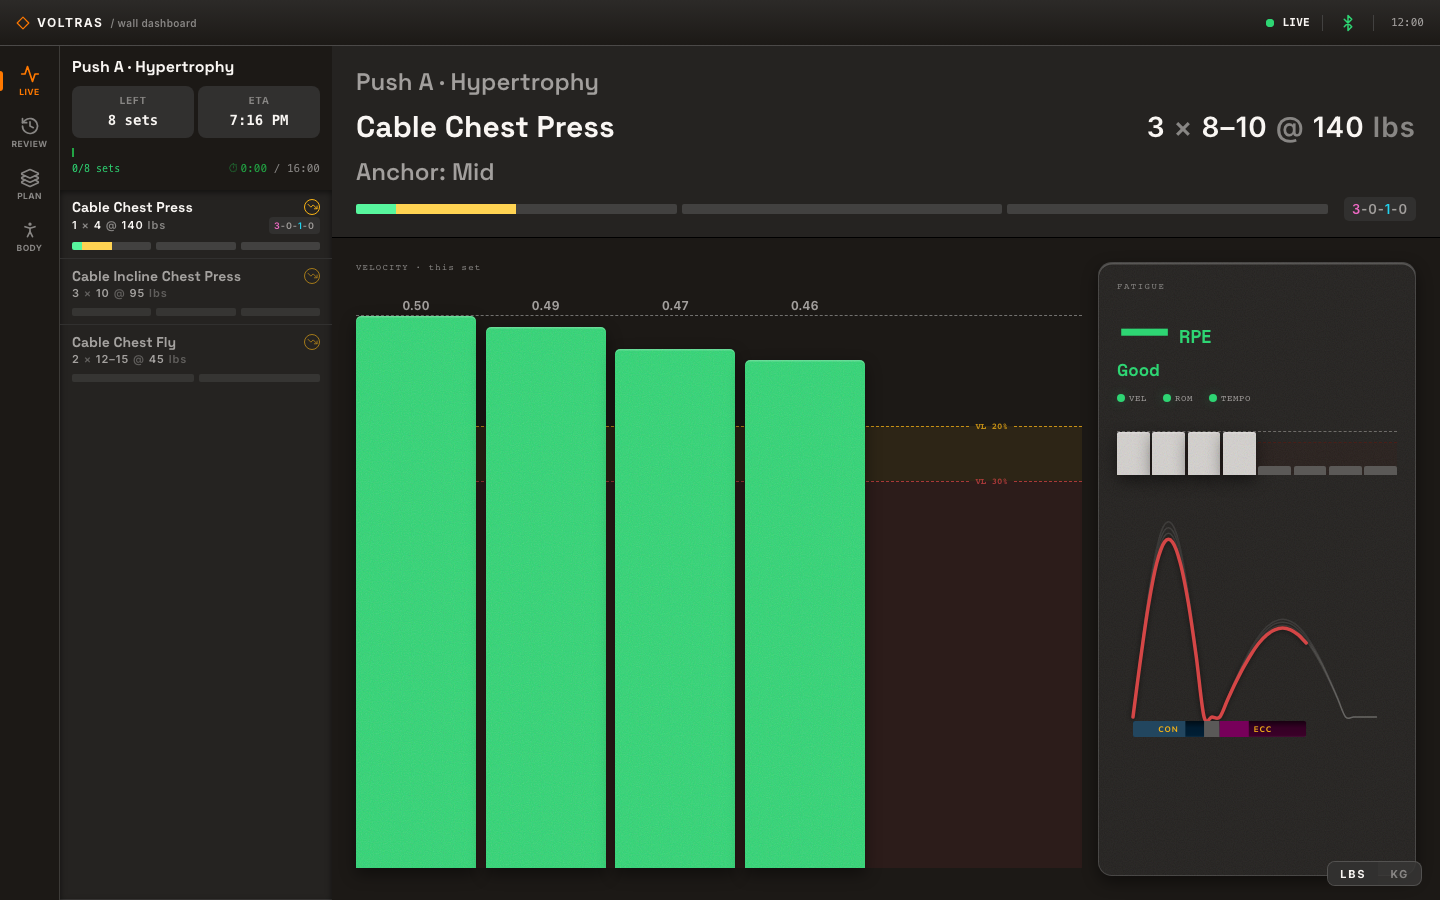
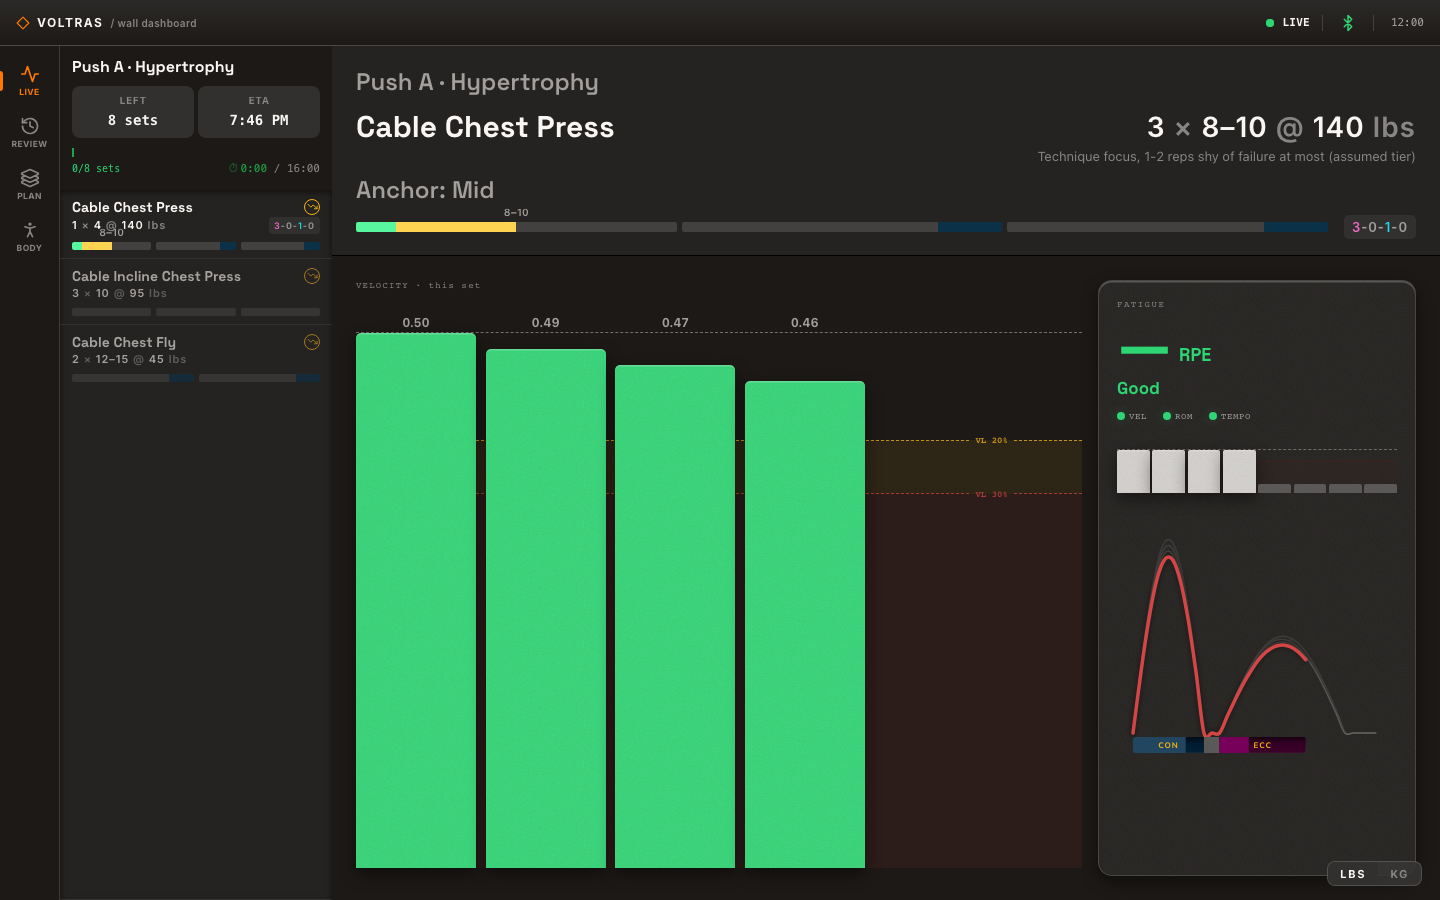
VW-670: re-pin live captures and document the effort caption

diff --git a/site/reference/dashboard-pages.md b/site/reference/dashboard-pages.md
@@ -17,9 +17,10 @@ sources:
   - src/dashboard/read-models/session-summary.ts
   - src/dashboard/spa/live-page/stage-variant.ts
   - src/dashboard/spa/live-page/RestView.tsx
+  - src/dashboard/spa/live-page/ExerciseHeader.tsx
   - src/tool-registry.ts
   - src/tools/truecoach-tools.ts
-lastVerified: 2026-09-28
+lastVerified: 2026-09-29
 ---
 
 # Dashboard pages
@@ -45,8 +46,11 @@ that says what does not work.
 ## What each page shows
 
 **Live (`#/`).** The current set as it happens, with velocity loss and form and tempo lights
-against the set's stop threshold. It does not show an effort estimate (RPE or reps in reserve)
-yet.
+against the set's stop threshold. Under the prescription it shows the effort target for a
+working set: the plan's RPE as written, else the target for your training tier, marked
+"(assumed tier)" when no tier was declared. Hover it for what the target rests on. A session
+with no plan shows no target. The page does not show an effort estimate (RPE or reps in
+reserve) read off the set yet.
 
 **Plan builder (`#/plan`).** Browse the exercise catalog, then build, change or reorder a
 workout. Lifts a coach adds with the `plan.*` tools appear without a reload, because the page
@@ -70,15 +74,15 @@ recorded against the mock adapter never count on this page.
 Each row names the tools whose calls put something on a screen. The status word is the same
 one the table above gives for that route.
 
-| Screen             | Route       | Status                                 | What you see                                                                                                       | Tools that put it there                                                                                                                                                                      |
-| ------------------ | ----------- | -------------------------------------- | ------------------------------------------------------------------------------------------------------------------ | -------------------------------------------------------------------------------------------------------------------------------------------------------------------------------------------- |
-| Live, during a set | `#/`        | Available                              | The device, the current set, velocity against the set's stop line, the fatigue card, the load and the prescription | `device.connect`, `session.start`, `set.start` (or auto-arm on your own reps), `device.set_weight` for the load, `plan.attach_to_session` for the prescription                               |
-| Live, resting      | `#/`        | Available                              | The set you just finished, its verdict, the rest ring and the pace footer                                          | `set.end`; the ring counts down the rest the attached plan sets for the lift, else a default                                                                                                 |
-| Live, two devices  | `#/`        | Available                              | Left and right velocity on one chart                                                                               | `device.connect` once with `slot` set to `left` and once to `right`; `slot.bind` remembers each device's side                                                                                |
-| Session summary    | `#/summary` | Available                              | A fatigue verdict per exercise, form lights, the worst velocity loss and a progression recommendation              | `session.start`, `set.start` and `set.end` for the sets; `plan.program.create` and `plan.exercise.create` for the recommendation, which needs the exercise prescribed in the current program |
-| Plan builder       | `#/plan`    | Available                              | The exercise catalog and the workout editor                                                                        | `plan.program.create`, `plan.template.create`, `plan.exercise.create`, `truecoach.import_week`, and the page's own edits                                                                     |
-| Goals              | `#/goals`   | [Coming soon](/coming-soon/goals-page) | Priorities with committed and stretch bands, the weekly trajectory, and bodyweight and attendance cards            | `goal.declare_priorities`, `goal.propose_targets`, `goal.accept_target`, `set.end`, `profile.log_bodyweight`, `profile.set_diet_phase`                                                       |
-| Body               | `#/body`    | [Coming soon](/coming-soon/body-map)   | Weekly sets per muscle, a strength trend per muscle, and planned against done this week                            | `set.end` on a real device, `session.set_exercise` to name the lift, `plan.exercise.create` for the week's planned sets, `profile.set_diet_phase`                                            |
+| Screen             | Route       | Status                                 | What you see                                                                                                                          | Tools that put it there                                                                                                                                                                                                    |
+| ------------------ | ----------- | -------------------------------------- | ------------------------------------------------------------------------------------------------------------------------------------- | -------------------------------------------------------------------------------------------------------------------------------------------------------------------------------------------------------------------------- |
+| Live, during a set | `#/`        | Available                              | The device, the current set, velocity against the set's stop line, the fatigue card, the load, the prescription and its effort target | `device.connect`, `session.start`, `set.start` (or auto-arm on your own reps), `device.set_weight` for the load, `plan.attach_to_session` for the prescription and its RPE, `profile.set_training_background` for the tier |
+| Live, resting      | `#/`        | Available                              | The set you just finished with its effort target, its verdict, the rest ring and the pace footer                                      | `set.end`; the ring counts down the rest the attached plan sets for the lift, else a default                                                                                                                               |
+| Live, two devices  | `#/`        | Available                              | Left and right velocity on one chart                                                                                                  | `device.connect` once with `slot` set to `left` and once to `right`; `slot.bind` remembers each device's side                                                                                                              |
+| Session summary    | `#/summary` | Available                              | A fatigue verdict per exercise, form lights, the worst velocity loss and a progression recommendation                                 | `session.start`, `set.start` and `set.end` for the sets; `plan.program.create` and `plan.exercise.create` for the recommendation, which needs the exercise prescribed in the current program                               |
+| Plan builder       | `#/plan`    | Available                              | The exercise catalog and the workout editor                                                                                           | `plan.program.create`, `plan.template.create`, `plan.exercise.create`, `truecoach.import_week`, and the page's own edits                                                                                                   |
+| Goals              | `#/goals`   | [Coming soon](/coming-soon/goals-page) | Priorities with committed and stretch bands, the weekly trajectory, and bodyweight and attendance cards                               | `goal.declare_priorities`, `goal.propose_targets`, `goal.accept_target`, `set.end`, `profile.log_bodyweight`, `profile.set_diet_phase`                                                                                     |
+| Body               | `#/body`    | [Coming soon](/coming-soon/body-map)   | Weekly sets per muscle, a strength trend per muscle, and planned against done this week                                               | `set.end` on a real device, `session.set_exercise` to name the lift, `plan.exercise.create` for the week's planned sets, `profile.set_diet_phase`                                                                          |
 
 The `goal.*` tools are available today. The Coming soon label on the Goals row is about the
 page, not the tools.

diff --git a/CHANGELOG.md b/CHANGELOG.md
@@ -48,6 +48,11 @@ entry is written from the user's point of view is a review question, not a check
 
 ### Added
 
+- The live page and the rest recap now show the effort target for a working set under the
+  prescription: the plan's RPE as the coach wrote it, else the target for your training tier,
+  marked "(assumed tier)" when you never declared one. Hover it for what the target rests on.
+  A session with no plan shows none (VW-670).
+
 - A **For coaches** section on the docs site, for a coach who reads a lifter's reports and
   has never seen an MCP (VMCP-07.07): the onboarding model with a data-loop diagram, consent
   and the data loop (with TrueCoach's terms quoted in full and the write-back marked
